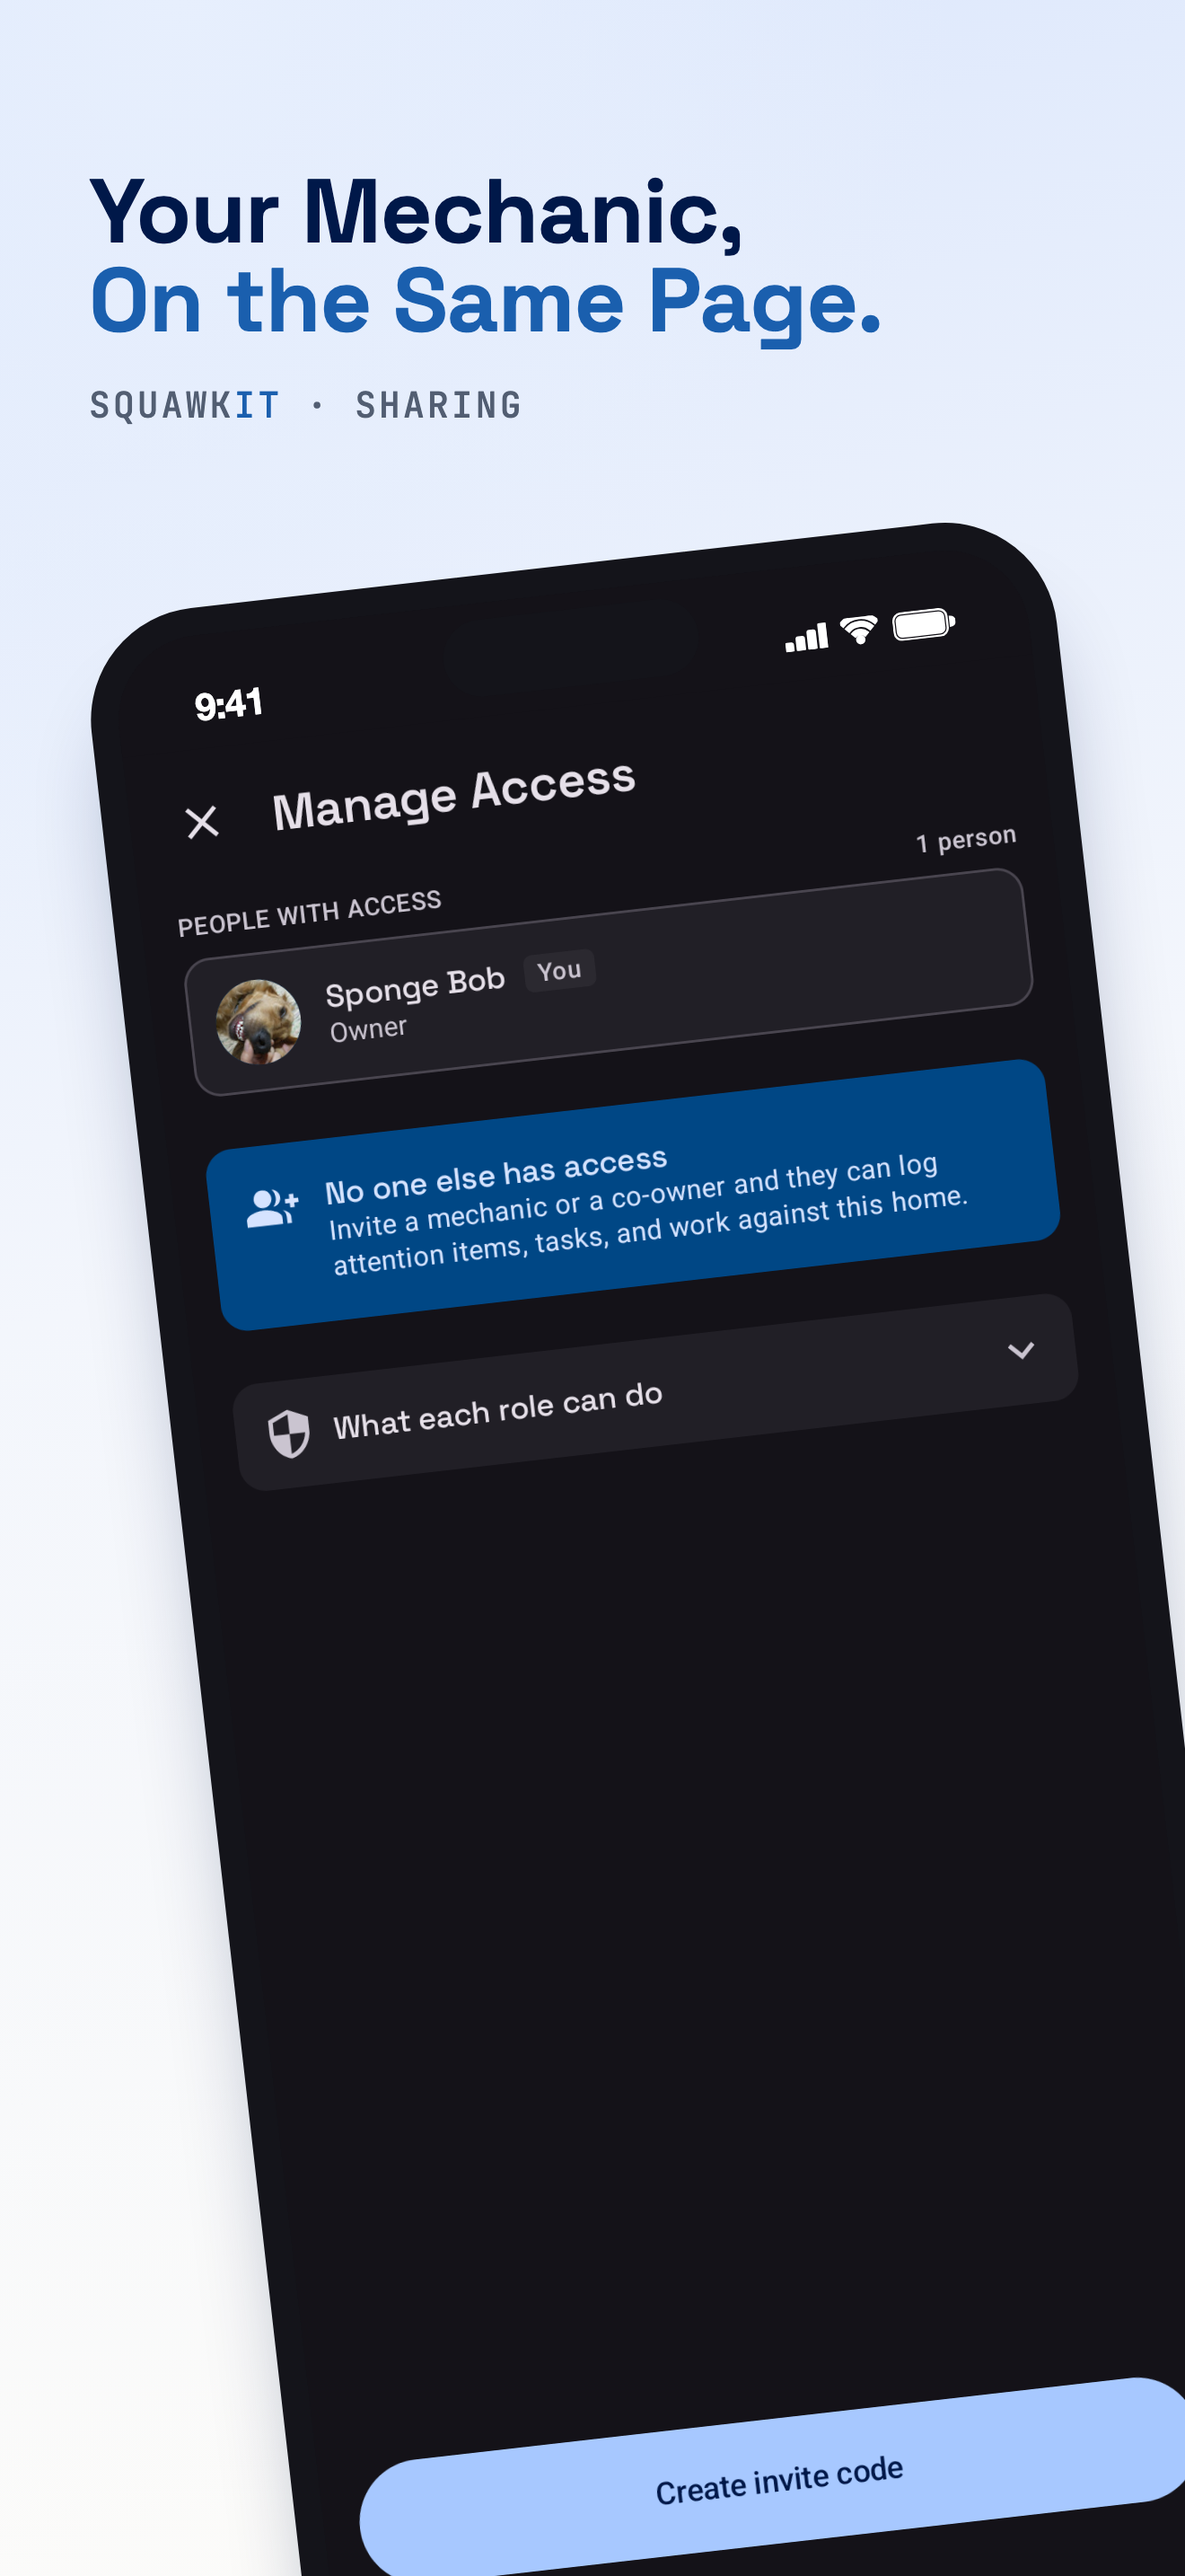
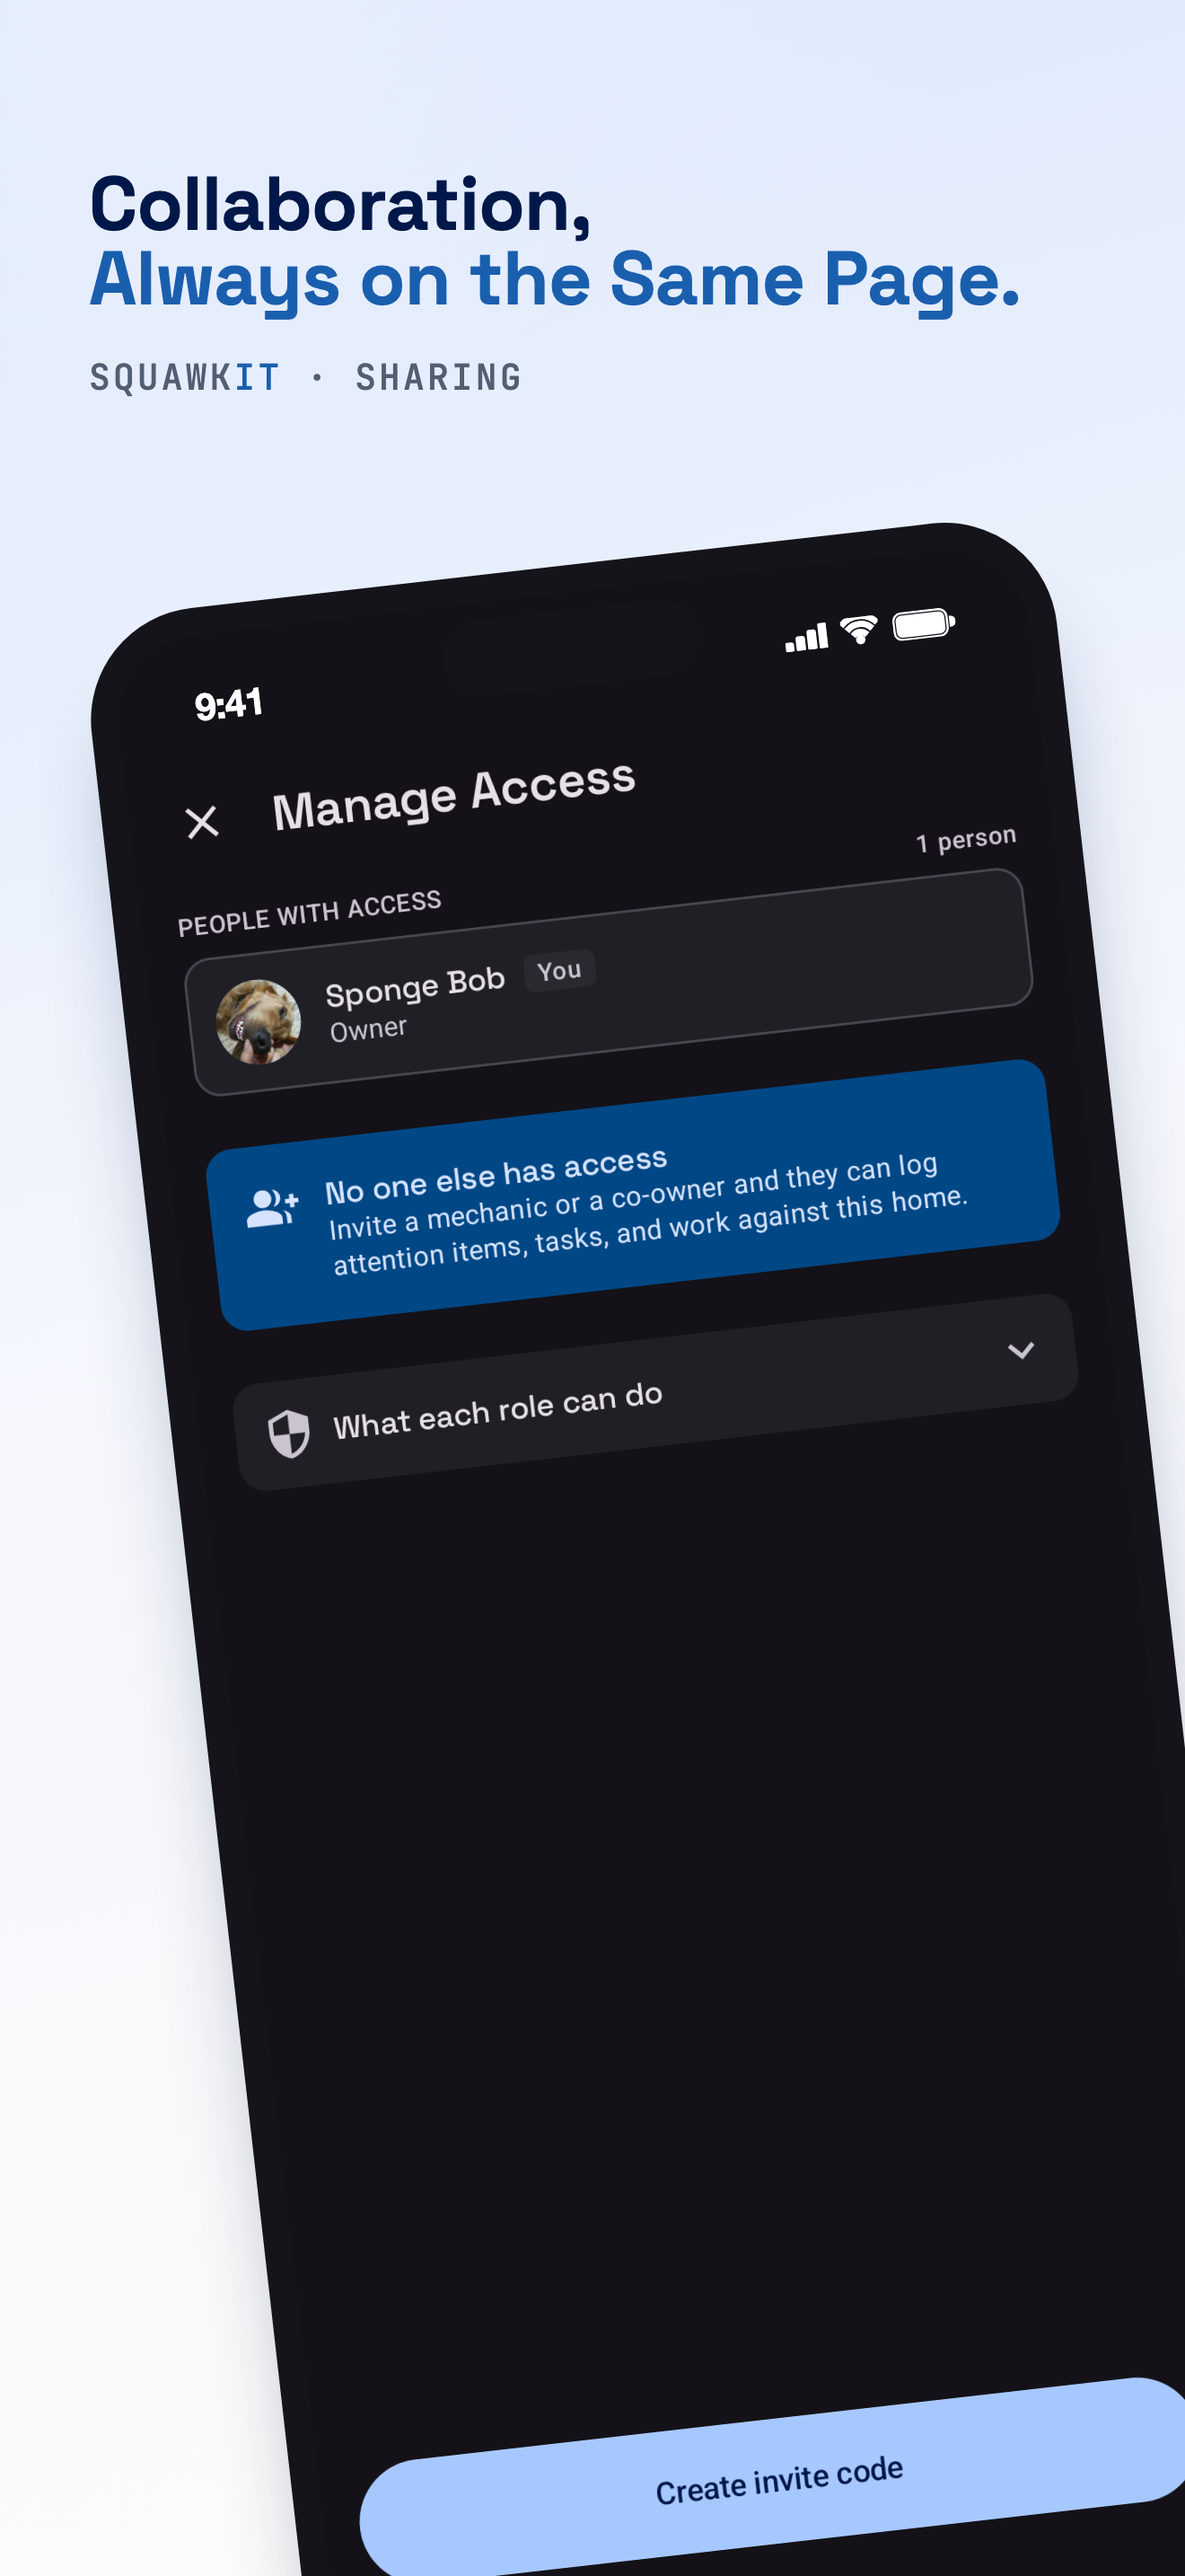
Reword the export and sharing listing headlines
Adds a per-screen headline_scale so a longer line can shrink instead of
wrapping.

Claude-Session: https://claude.ai/code/session_01LxPt4Q1dmTTxpVNJSWfxpp

Changed region(s): [[0.0621, 0.0621, 0.8386, 0.1862]]

diff --git a/docs/product/screenshot_generator/templates/portrait.html b/docs/product/screenshot_generator/templates/portrait.html
@@ -54,7 +54,7 @@
   .headline .l1, .headline .l2 {
     font-family: 'Space Grotesk', system-ui, sans-serif;
     font-weight: 700;
-    font-size: 7.6cqw;
+    font-size: calc(7.6cqw * __HEADLINE_SCALE__);
     line-height: 0.98;
     letter-spacing: -0.01em;
   }

diff --git a/docs/product/screenshot_generator/templates/landscape.html b/docs/product/screenshot_generator/templates/landscape.html
@@ -55,7 +55,7 @@
   .headline .l1, .headline .l2 {
     font-family: 'Space Grotesk', system-ui, sans-serif;
     font-weight: 700;
-    font-size: 4.2cqw;
+    font-size: calc(4.2cqw * __HEADLINE_SCALE__);
     line-height: 1.0;
     letter-spacing: -0.01em;
   }

diff --git a/docs/product/screenshot_generator/generate.py b/docs/product/screenshot_generator/generate.py
@@ -60,7 +60,8 @@ CHROME = os.environ.get(
 # and homes too.
 #
 # object_position picks which part of a capture shows through the frame when
-# the frame crops it ("50% 0%" = anchored to the top).
+# the frame crops it ("50% 0%" = anchored to the top). headline_scale (default 1)
+# shrinks the headline for a line that would otherwise wrap.
 # ---------------------------------------------------------------------------
 SCREENS = [
     {
@@ -108,15 +109,16 @@ SCREENS = [
         "src": "export",
         "feature_label": "Export",
         "l1": "Your Records,",
-        "l2": "Ready to Share.",
+        "l2": "Ready to Archive.",
         "object_position": "50% 0%",
     },
     {
         "num": "07",
         "src": "sharing",
         "feature_label": "Sharing",
-        "l1": "Your Mechanic,",
-        "l2": "On the Same Page.",
+        "l1": "Collaboration,",
+        "l2": "Always on the Same Page.",
+        "headline_scale": 0.84,
         "object_position": "50% 0%",
     },
 ]
@@ -305,6 +307,7 @@ def render_target(name, target, fonts):
                 "DEVICES": device_html(captures, target["device"], ios_bar=derived),
                 "HEADLINE_L1": s["l1"],
                 "HEADLINE_L2": s["l2"],
+                "HEADLINE_SCALE": s.get("headline_scale", 1),
                 "FEATURE_LABEL": s["feature_label"],
                 "OBJECT_POSITION": s["object_position"],
             },
